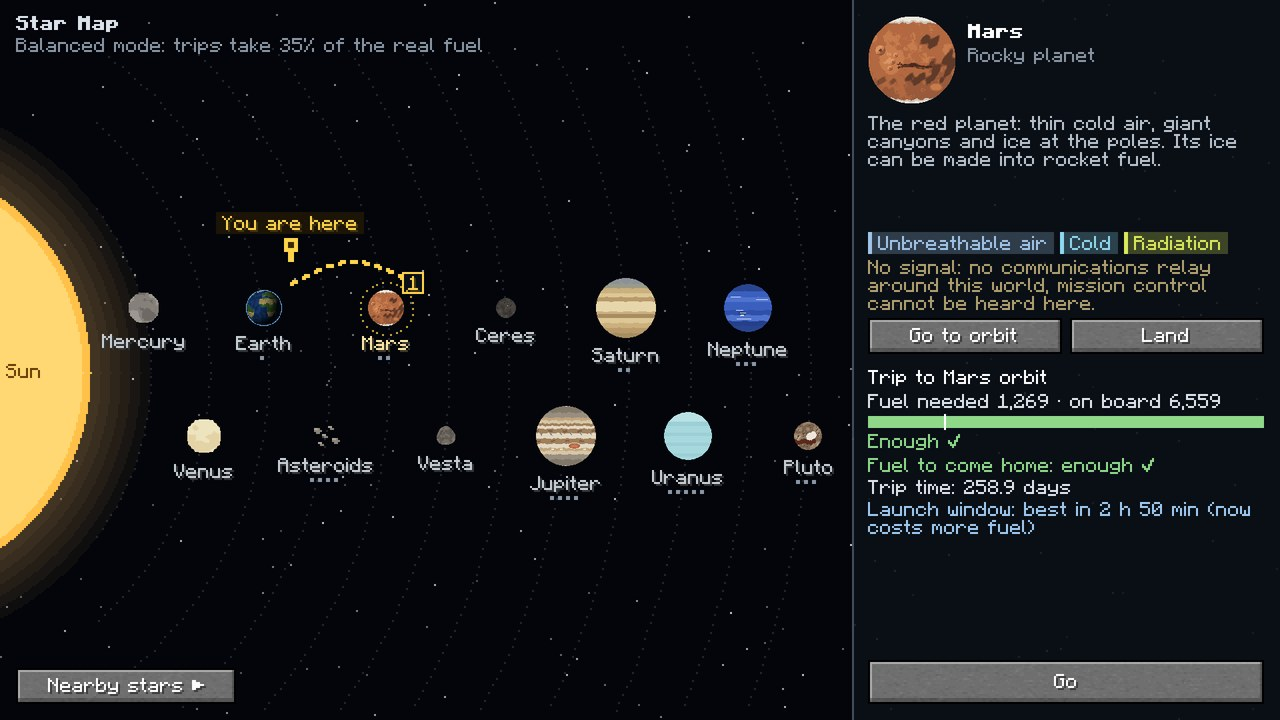
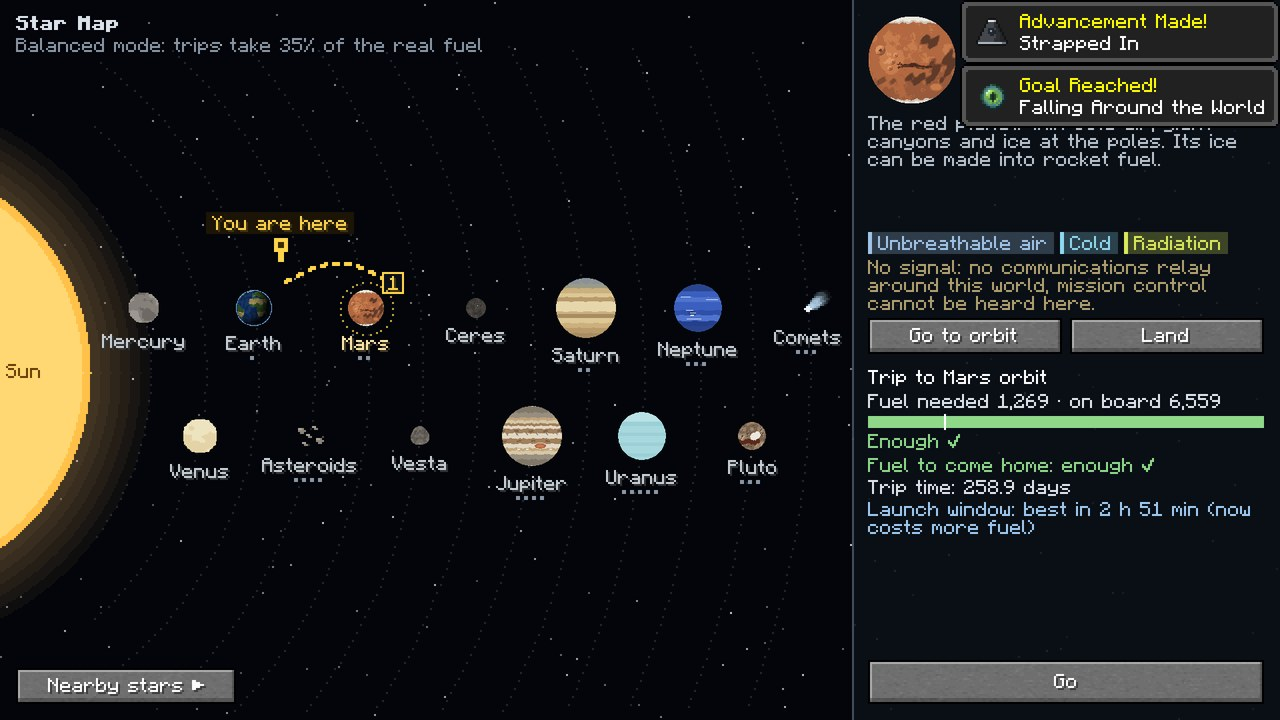
Rocketry: comets on the star map as information only
Comets are kept out of the flight places (no orbit, no surface) and gathered in
one 'Comets' node at the end of the solar system view. Each has a card from the
astro library: distance from the Sun, next closest pass and its distance, orbital
period and activity; no orbit or landing buttons. Comet names come from the
catalogue. Showcase shot 45.

diff --git a/src/main/java/com/pizzaparker07/spacebreaker/client/rocketry/StarMapScreen.java b/src/main/java/com/pizzaparker07/spacebreaker/client/rocketry/StarMapScreen.java
@@ -125,7 +125,11 @@ public class StarMapScreen extends Screen {
             goButton.visible = star != null;
             goButton.active = false;
         } else {
-            orbitButton.visible = true;
+            // comets are on the map to look at, not to fly to (yet)
+            orbitButton.visible = !StarMapData.comet(body);
+            if (StarMapData.comet(body)) {
+                surfaceButton.visible = false;
+            }
         }
     }
 
@@ -188,7 +192,7 @@ public class StarMapScreen extends Screen {
             }
         } else {
             int cx = mapW / 2;
-            int pr = StarMapData.NEAR_EARTH_ASTEROIDS.equals(focus) ? 9 : Mth.clamp(Math.min(mapW, height) / 9, 14, 30);
+            int pr = StarMapData.NEAR_EARTH_ASTEROIDS.equals(focus) || StarMapData.COMETS.equals(focus) ? 9 : Mth.clamp(Math.min(mapW, height) / 9, 14, 30);
             nodes.put(focus, new Node(focus, cx, cy, pr));
             List<ResourceLocation> moons = StarMapData.moons(focus);
             int first = pr + 46;
@@ -294,7 +298,7 @@ public class StarMapScreen extends Screen {
             layoutMap();
         }
         // the asteroid group is not a place: pick its first member
-        select(StarMapData.NEAR_EARTH_ASTEROIDS.equals(n.body) ? StarMapData.moons(n.body).get(0) : n.body);
+        select(StarMapData.NEAR_EARTH_ASTEROIDS.equals(n.body) || StarMapData.COMETS.equals(n.body) ? StarMapData.moons(n.body).get(0) : n.body);
         return true;
     }
 
@@ -379,7 +383,7 @@ public class StarMapScreen extends Screen {
                 ellipse(g, p.x, p.y, (int) r, (int) (r * 0.8), 0x30A0B4C8);
             }
         }
-        g.drawCenteredString(font, StarMapData.NEAR_EARTH_ASTEROIDS.equals(focus) ? Location.bodyName(focus)
+        g.drawCenteredString(font, StarMapData.NEAR_EARTH_ASTEROIDS.equals(focus) || StarMapData.COMETS.equals(focus) ? Location.bodyName(focus)
                 : Component.translatable("gui.spacebreaker.star_map.system_of", Location.bodyName(focus)), mapW / 2, 34, INK);
     }
 
@@ -394,6 +398,10 @@ public class StarMapScreen extends Screen {
             // the asteroid group gets a short label so it never runs into its neighbours
             Component name = StarMapData.NEAR_EARTH_ASTEROIDS.equals(n.body)
                     ? Component.translatable("body.spacebreaker.near_earth_asteroids.short") : Location.bodyName(n.body);
+            if (StarMapData.comet(n.body)) {
+                name = com.pizzaparker07.spacebreaker.core.astro.smallbody.Comet.byId(n.body.getPath())
+                        .map(c -> (Component) Component.literal(c.designation())).orElse(name);
+            }
             int col = sel ? 0xFFFFE9A8 : 0xFFC8D0D8;
             g.drawCenteredString(font, name, n.x, n.y + n.r + 5, col);
             if (!com.pizzaparker07.spacebreaker.content.rocketry.station.Stations.around(n.body).isEmpty()) {
@@ -530,6 +538,10 @@ public class StarMapScreen extends Screen {
             hx += tw + 3;
         }
         y += 14;
+        if (StarMapData.comet(body)) {
+            drawComet(g, x, y, w);
+            return;
+        }
         if (!com.pizzaparker07.spacebreaker.content.rocketry.mission.Coverage.hasSignal(body)) {
             for (FormattedCharSequence line : font.split(Component.translatable("gui.spacebreaker.star_map.no_signal"), w)) {
                 g.drawString(font, line, x, y, 0xFFB0A070, false);
@@ -574,6 +586,22 @@ public class StarMapScreen extends Screen {
             return;
         }
         drawTrip(g, x, orbitButton.getY() + 26, w);
+    }
+
+    /** A comet's card: where it is, when it next swings past the Sun, how active it is. */
+    private void drawComet(GuiGraphics g, int x, int y, int w) {
+        var info = StarMapData.cometInfo(body, com.pizzaparker07.spacebreaker.core.astro.BodyAdapter.simTime(minecraft.level)).orElse(null);
+        if (info == null) {
+            return;
+        }
+        boolean tr = minecraft.getLanguageManager().getSelected().startsWith("tr");
+        String level = tr ? info.level().nameTr : info.level().nameEn;
+        y = fact(g, x, y, w, Component.translatable("gui.spacebreaker.star_map.comet.distance", decimal(info.sunAu())));
+        y = fact(g, x, y, w, Component.translatable("gui.spacebreaker.star_map.comet.perihelion",
+                info.nextPerihelion().format(java.time.format.DateTimeFormatter.ISO_LOCAL_DATE), decimal(info.perihelionAu())));
+        y = fact(g, x, y, w, Component.translatable("gui.spacebreaker.star_map.comet.period", decimal(info.periodYears())));
+        y = fact(g, x, y, w, Component.translatable("gui.spacebreaker.star_map.comet.activity", level));
+        g.drawWordWrap(font, Component.translatable("gui.spacebreaker.star_map.comet.no_trip"), x, y + 6, w, DIM);
     }
 
     private void drawTrip(GuiGraphics g, int x, int y, int w) {
@@ -904,6 +932,15 @@ public class StarMapScreen extends Screen {
     // ------------------------------------------------------------------ primitives
 
     private static void planet(GuiGraphics g, ResourceLocation body, int cx, int cy, int r) {
+        if (StarMapData.COMETS.equals(body) || StarMapData.comet(body)) {
+            // a bright little nucleus with its tail streaming away to the upper right
+            for (int i = r * 2; i > 0; i--) {
+                int a = 0x10 + 0xA0 * (r * 2 - i) / (r * 2);
+                disc(g, cx + i * 2 / 3, cy - i / 2, Math.max(1, r / 3 + i / 5), (a << 24) | 0xB8D8F0);
+            }
+            disc(g, cx, cy, Math.max(2, r / 3), 0xFFEEF4FA);
+            return;
+        }
         if (StarMapData.NEAR_EARTH_ASTEROIDS.equals(body)) {
             // a loose handful of grey rocks
             int[][] rocks = {{-4, -3, 3}, {3, -4, 2}, {5, 2, 3}, {-2, 4, 2}, {0, 0, 2}};
@@ -945,7 +982,7 @@ public class StarMapScreen extends Screen {
 
     /** Opened from the HUD hint or the key; also used by the showcase to preselect a destination. */
     public void preselect(ResourceLocation b, boolean orbit) {
-        if (Locations.parentPlanet(b).isPresent() || StarMapData.nearEarthAsteroid(b)) {
+        if (Locations.parentPlanet(b).isPresent() || StarMapData.nearEarthAsteroid(b) || StarMapData.comet(b)) {
             focus = StarMapData.system(b);
             layoutMap();
         }

diff --git a/src/main/java/com/pizzaparker07/spacebreaker/content/rocketry/RocketryLang.java b/src/main/java/com/pizzaparker07/spacebreaker/content/rocketry/RocketryLang.java
@@ -278,6 +278,12 @@ final class RocketryLang {
         l.add("gui.spacebreaker.star_map.system_of", "The %s system", "%s sistemi");
         l.add("body.spacebreaker.near_earth_asteroids", "Near-Earth asteroids", "Dünya'ya yakın asteroitler");
         l.add("body.spacebreaker.near_earth_asteroids.short", "Asteroids", "Asteroitler");
+        l.add("body.spacebreaker.comets", "Comets", "Kuyruklu yıldızlar");
+        l.add("gui.spacebreaker.star_map.comet.distance", "From the Sun: %s AU", "Güneş'e uzaklık: %s AU");
+        l.add("gui.spacebreaker.star_map.comet.perihelion", "Next closest pass: %s (%s AU)", "Güneş'e en yakın geçiş: %s (%s AU)");
+        l.add("gui.spacebreaker.star_map.comet.period", "One orbit: %s years", "Bir tur: %s yıl");
+        l.add("gui.spacebreaker.star_map.comet.activity", "Activity: %s", "Etkinlik: %s");
+        l.add("gui.spacebreaker.star_map.comet.no_trip", "Too fast and too far to catch for now: watch it from afar.", "Şimdilik yakalanamayacak kadar hızlı ve uzak: uzaktan izle.");
         l.add("gui.spacebreaker.star_map.back", "◀ Solar System", "◀ Güneş Sistemi");
         l.add("gui.spacebreaker.star_map.to_orbit", "Go to orbit", "Yörüngeye git");
         l.add("gui.spacebreaker.star_map.land", "Land", "Yüzeye in");
@@ -319,7 +325,7 @@ final class RocketryLang {
         l.add("gui.spacebreaker.star_map.hazard.radiation", "Radiation", "Radyasyon");
         for (String[] k : new String[][]{
                 {"terrestrial", "Rocky planet", "Kayalık gezegen"}, {"dwarf", "Dwarf planet", "Cüce gezegen"}, {"moon", "Moon", "Uydu"},
-                {"gas_giant", "Gas giant", "Gaz devi"}, {"ice_giant", "Ice giant", "Buz devi"}, {"asteroid", "Asteroid", "Asteroit"},
+                {"gas_giant", "Gas giant", "Gaz devi"}, {"ice_giant", "Ice giant", "Buz devi"}, {"asteroid", "Asteroid", "Asteroit"}, {"comet", "Comet", "Kuyruklu yıldız"},
                 {"star", "Star", "Yıldız"}, {"station", "Space station", "Uzay istasyonu"}}) {
             l.add("gui.spacebreaker.star_map.kind." + k[0], k[1], k[2]);
         }
@@ -330,6 +336,8 @@ final class RocketryLang {
                 {"gas_giant", "A giant ball of gas with no ground to stand on.", "Üzerinde durulacak zemini olmayan dev bir gaz küresi."},
                 {"ice_giant", "A cold giant of gas and ice, with no ground to stand on.", "Gaz ve buzdan soğuk bir dev; üzerinde durulacak zemin yok."},
                 {"asteroid", "A lump of rock left over from the birth of the planets.", "Gezegenlerin doğumundan kalmış bir kaya parçası."},
+                {"comet", "A dirty snowball on a long, stretched orbit: near the Sun its ice boils off into a glowing tail.",
+                        "Uzun, basık bir yörüngede kirli bir kar topu: Güneş'e yaklaşınca buzu kaynayıp parlayan bir kuyruğa dönüşür."},
                 {"star", "", ""}, {"station", "A home built in space.", "Uzayda kurulmuş bir yuva."}}) {
             l.add("gui.spacebreaker.star_map.about_kind." + k[0], k[1], k[2]);
         }
@@ -366,6 +374,10 @@ final class RocketryLang {
         // (Neptune, Triton, Pluto and Charon are named by their own world modules)
         for (String[] b : new String[][]{{"uranus", "Uranus", "Uranüs"}, {"miranda", "Miranda", "Miranda"}}) {
             l.add("body.spacebreaker." + b[0], b[1], b[2]);
+        }
+        // comets have no world module: the map names them from the astro library's catalogue
+        for (var c : com.pizzaparker07.spacebreaker.core.astro.smallbody.Comet.CATALOGUE) {
+            l.add("body.spacebreaker." + c.id(), c.nameEn(), c.nameTr());
         }
     }
 }

diff --git a/src/main/java/com/pizzaparker07/spacebreaker/content/rocketry/nav/StarMapData.java b/src/main/java/com/pizzaparker07/spacebreaker/content/rocketry/nav/StarMapData.java
@@ -184,6 +184,38 @@ public final class StarMapData {
 
     /** The map's group of near-Earth asteroids (not a real body): one node on the solar system view. */
     public static final ResourceLocation NEAR_EARTH_ASTEROIDS = ResourceLocation.fromNamespaceAndPath("spacebreaker", "near_earth_asteroids");
+    /** The map's group of comets: information only (comets are not places to fly to yet). */
+    public static final ResourceLocation COMETS = ResourceLocation.fromNamespaceAndPath("spacebreaker", "comets");
+
+    public static boolean comet(ResourceLocation body) {
+        return Locations.comets().contains(body);
+    }
+
+    /**
+     * What the map shows about a comet now.
+     *
+     * @param sunAu            distance from the Sun, AU
+     * @param nextPerihelion   date of the next closest pass to the Sun
+     * @param level            how active it is (asleep far out, a bright tail near the Sun)
+     * @param periodYears      orbital period
+     */
+    public record CometInfo(double sunAu, java.time.LocalDate nextPerihelion, com.pizzaparker07.spacebreaker.core.astro.smallbody.CometActivity.Level level,
+                            double periodYears, double perihelionAu) {
+    }
+
+    /** The comet card at simulated time {@code t} (seconds from J2000), if the astro library knows the comet. */
+    public static java.util.Optional<CometInfo> cometInfo(ResourceLocation body, double t) {
+        return com.pizzaparker07.spacebreaker.core.astro.smallbody.Comet.byId(body.getPath()).map(c -> {
+            var activity = com.pizzaparker07.spacebreaker.core.astro.smallbody.CometActivity.at(c, t);
+            double periodDays = c.periodSeconds() / 86400.0;
+            double nowDays = t / 86400.0;
+            double k = Math.ceil((nowDays - c.perihelionDays()) / periodDays);
+            double next = c.perihelionDays() + k * periodDays;
+            java.time.LocalDate date = java.time.LocalDate.of(2000, 1, 1).plusDays((long) Math.floor(next + 0.5));
+            return new CometInfo(activity.distanceAu(), date, activity.level(), c.periodYears(), c.perihelionAu());
+        });
+    }
+
     /** A near-Earth asteroid comes closer to the Sun than 1.3 AU (the usual definition). */
     public static final double NEA_PERIHELION_KM = 1.3 * 149_597_870.7;
 
@@ -205,11 +237,17 @@ public final class StarMapData {
                 out.add(b);
             }
         }
+        if (!Locations.comets().isEmpty()) {
+            out.add(COMETS); // last: their orbits reach out past the planets
+        }
         return out;
     }
 
     public static List<ResourceLocation> moons(ResourceLocation planet) {
         List<ResourceLocation> out = new ArrayList<>();
+        if (COMETS.equals(planet)) {
+            return Locations.comets();
+        }
         if (NEAR_EARTH_ASTEROIDS.equals(planet)) {
             for (Location l : Locations.all()) {
                 if (nearEarthAsteroid(l.body()) && !out.contains(l.body())) {
@@ -228,6 +266,6 @@ public final class StarMapData {
 
     /** The planet a body belongs to (itself for planets): the map focuses on this system. */
     public static ResourceLocation system(ResourceLocation body) {
-        return nearEarthAsteroid(body) ? NEAR_EARTH_ASTEROIDS : Locations.parentPlanet(body).orElse(body);
+        return comet(body) ? COMETS : nearEarthAsteroid(body) ? NEAR_EARTH_ASTEROIDS : Locations.parentPlanet(body).orElse(body);
     }
 }

diff --git a/src/testmod/java/com/pizzaparker07/spacebreaker/testmod/rocketry/RocketryGameTests.java b/src/testmod/java/com/pizzaparker07/spacebreaker/testmod/rocketry/RocketryGameTests.java
@@ -1093,6 +1093,34 @@ public final class RocketryGameTests {
     }
 
     @GameTest(template = EMPTY)
+    public static void cometsOnTheMap(GameTestHelper helper) {
+        var planets = StarMapData.planets();
+        helper.assertTrue(!planets.isEmpty() && planets.get(planets.size() - 1).equals(StarMapData.COMETS), "one comet node, last: " + planets);
+        var comets = StarMapData.moons(StarMapData.COMETS);
+        for (String n : List.of("halley", "encke", "churyumov_gerasimenko")) {
+            var id = Spacebreaker.id(n);
+            helper.assertTrue(comets.contains(id) && !planets.contains(id), n + " is in the comet group");
+            helper.assertTrue(StarMapData.system(id).equals(StarMapData.COMETS), n + " belongs to the group");
+            helper.assertTrue(com.pizzaparker07.spacebreaker.content.rocketry.nav.Locations.get(id, true).isEmpty()
+                    && com.pizzaparker07.spacebreaker.content.rocketry.nav.Locations.get(id, false).isEmpty(), n + ": nowhere to fly (no orbit, no surface)");
+            helper.assertTrue(com.pizzaparker07.spacebreaker.content.rocketry.nav.Locations.all().stream().noneMatch(l -> l.body().equals(id)), n + ": not a destination");
+        }
+        // the card at J2000
+        var halley = StarMapData.cometInfo(Spacebreaker.id("halley"), 0).orElseThrow();
+        helper.assertTrue(halley.nextPerihelion().getYear() == 2061, "Halley comes back in 2061: " + halley.nextPerihelion());
+        helper.assertTrue(halley.sunAu() > 10 && halley.level() == com.pizzaparker07.spacebreaker.core.astro.smallbody.CometActivity.Level.DORMANT,
+                "far out in 2000 and asleep: " + halley.sunAu() + " AU");
+        var encke = StarMapData.cometInfo(Spacebreaker.id("encke"), 0).orElseThrow();
+        helper.assertTrue(encke.periodYears() > 3 && encke.periodYears() < 3.6, "Encke: 3.3 years: " + encke.periodYears());
+        // 67P at its 2015 perihelion was active
+        double perihelion2015 = (java.time.LocalDate.of(2015, 8, 13).toEpochDay() - java.time.LocalDate.of(2000, 1, 1).toEpochDay()) * 86400.0;
+        var p67 = StarMapData.cometInfo(Spacebreaker.id("churyumov_gerasimenko"), perihelion2015).orElseThrow();
+        helper.assertTrue(p67.sunAu() < 1.4 && p67.level() != com.pizzaparker07.spacebreaker.core.astro.smallbody.CometActivity.Level.DORMANT,
+                "67P near the Sun in August 2015, active: " + p67.sunAu() + " AU, " + p67.level());
+        helper.succeed();
+    }
+
+    @GameTest(template = EMPTY)
     public static void nearEarthAsteroids(GameTestHelper helper) {
         var planets = StarMapData.planets();
         helper.assertTrue(planets.contains(StarMapData.NEAR_EARTH_ASTEROIDS), "one group for the near-Earth asteroids: " + planets);

diff --git a/src/main/java/com/pizzaparker07/spacebreaker/content/rocketry/nav/Locations.java b/src/main/java/com/pizzaparker07/spacebreaker/content/rocketry/nav/Locations.java
@@ -45,6 +45,7 @@ public final class Locations {
         }
         Map<ResourceLocation, CelestialBody> b = new LinkedHashMap<>();
         List<Location> out = new ArrayList<>();
+        List<ResourceLocation> cometIds = new ArrayList<>();
         reg.get().entrySet().stream()
                 .sorted(Comparator.comparingDouble(e -> order(reg.get(), e.getValue())))
                 .forEach(e -> {
@@ -54,6 +55,11 @@ public final class Locations {
                         return;
                     }
                     b.put(id, body);
+                    if (body.type() == BodyType.COMET) {
+                        // known for the map's information card, but nowhere to fly: no orbit, no surface
+                        cometIds.add(id);
+                        return;
+                    }
                     Location surface = Location.of(id, body, false);
                     if (surface != null) {
                         out.add(surface);
@@ -62,6 +68,7 @@ public final class Locations {
                 });
         bodies = Map.copyOf(b);
         all = List.copyOf(out);
+        comets = List.copyOf(cometIds);
         java.util.Set<ResourceLocation> fuel = new java.util.HashSet<>();
         reg.get().getTag(REFUEL).ifPresent(tag -> tag.forEach(h -> h.unwrapKey().ifPresent(k -> fuel.add(k.location()))));
         fuel.add(Location.EARTH);
@@ -76,6 +83,13 @@ public final class Locations {
             return parent.get().orbit().semiMajorAxisKm() + Math.min(own, 1e6) * 1e-3;
         }
         return own;
+    }
+
+    private static volatile List<ResourceLocation> comets = List.of();
+
+    /** Comets of the body data, in order from the Sun: shown on the star map, not places to fly to. */
+    public static List<ResourceLocation> comets() {
+        return comets;
     }
 
     /** Whether propellant can be made on this world's surface (see {@link #REFUEL}). */

diff --git a/src/testmod/java/com/pizzaparker07/spacebreaker/testmod/showcase/RocketryScenario.java b/src/testmod/java/com/pizzaparker07/spacebreaker/testmod/showcase/RocketryScenario.java
@@ -562,6 +562,7 @@ final class RocketryScenario implements ShowcaseScenario {
                 }, null));
         s.add(new Shot("43_map_asteroids", 6000, 0, 0, 0, 0F, 0F, false, fp, 120, p -> mapShot(p, Spacebreaker.id("bennu"), false), null));
         s.add(new Shot("44_map_system_asteroids", 6000, 0, 0, 0, 0F, 0F, false, fp, 120, p -> mapShot(p, Spacebreaker.id("mars"), true), null));
+        s.add(new Shot("45_map_comets", 6000, 0, 0, 0, 0F, 0F, false, fp, 120, p -> mapShot(p, Spacebreaker.id("churyumov_gerasimenko"), false), null));
         s.add(new Shot("31_nearby_stars", 6000, 0, 0, 0, 0F, 0F, false, fp, 120,
                 p -> {
                     RocketryShowcaseClient.star = "Alpha Centauri";

diff --git a/docs/CONTENT.md b/docs/CONTENT.md
@@ -49,7 +49,7 @@ Her içerik paketi gerçek istemcide vitrin dünyasında fotoğraflanır; onayda
 | 🎨 | Fırlatma tesisi: rampa kaplaması, alev kanalı ızgarası, servis kulesi, erişim kolu (geri sayımda katlanır), yakıt hattı (c:rp1 / c:liquid_oxygen), kontrol konsolu | çok bloklu; boş elle tıklayınca kontrol listesi + eksik bloklar alevle işaretlenir |
 | ⬜ | Uyarı ışığı | |
 | 🎨 | Roket parçaları: burun konisi, kapsül, ısı kalkanı, paraşüt, küçük/orta/büyük tank, deniz seviyesi + vakum kerosen motoru, deniz seviyesi + vakum metaloks motoru (Metan Motorları teknolojisi; Mars'ta üretilen metan + LOX ile dönüş), deniz seviyesi + vakum hidroloks motoru (Hidrojen Motorları; en yüksek Isp, Merkür yörüngesine gidip dönüş), kademe ayırıcı, ara kademe, kanatçık, ızgara kanatçık, iniş bacakları, manevra iticileri | veriyle tanımlı (`rocket_part/*.json`), gerçekçi kütle/itki/Isp; tanklar kademenin motorunun yakıtını (RP-1, sıvı metan ya da sıvı hidrojen) alır; envanterde 2B, elde ve rokette 3B |
-| 🎨 | Roket, yörünge boyutları (Dünya / Ay yörüngesi + diğer cisimler için ortak yörünge), yıldız haritası (gök cismi verisinden: Merkür, Venüs, Mars, Phobos, Deimos ve dış sistem kendiliğinden; Güneş solda, gezegene tıklayınca sistemine yakınlaşır, sağ panelde resim, kısa açıklama, tehlikeler, "Yörüngeye git / Yüzeye in", düz dille yakıt kontrolü, dönüş yakıtı, yolculuk süresi, fırlatma penceresi, adım adım rota; sağ tık ile "Yakın yıldızlar": Güneş'e 25 ışık yılı içindeki yıldızlar, Samanyolu'nda konum, yıldız bilgisi — yıldızlar arası yolculuk henüz yok) | binince roket kamerası (fareyle çevresinde dön, tekerlekle yakınlaş, F5 ile kokpit penceresi), boyut değişiminde yükleme ekranı yerine geçiş animasyonu (gök kararır → yıldızlar, yıldızlar akar → hedef büyür, gezegen yaklaşır → plazma), geri sayım, ateşleme, kademe ayrılması, gökyüzünün kararması, yörüngede dönen gezegen, Ay'a motorlu iniş + toz, atmosfere giriş (plazma), paraşüt, suya iniş |
+| 🎨 | Roket, yörünge boyutları (Dünya / Ay yörüngesi + diğer cisimler için ortak yörünge), yıldız haritası (gök cismi verisinden: Merkür, Venüs, Mars, Phobos, Deimos ve dış sistem kendiliğinden; Güneş solda, gezegene tıklayınca sistemine yakınlaşır, sağ panelde resim, kısa açıklama, tehlikeler, "Yörüngeye git / Yüzeye in", düz dille yakıt kontrolü, dönüş yakıtı, yolculuk süresi, fırlatma penceresi, adım adım rota; sağ tık ile "Yakın yıldızlar": Güneş'e 25 ışık yılı içindeki yıldızlar, Samanyolu'nda konum, yıldız bilgisi — yıldızlar arası yolculuk henüz yok; Dünya'ya yakın asteroitler (Bennu, Ryugu, Itokawa, Eros) tek "Asteroitler" düğümünde toplanır; kuyruklu yıldızlar (1P/Halley, 2P/Encke, 67P) yalnız bilgi kartıyla: Güneş'e uzaklık, sonraki yakın geçiş, bir tur süresi, etkinlik; gidilecek yer değil) | binince roket kamerası (fareyle çevresinde dön, tekerlekle yakınlaş, F5 ile kokpit penceresi), boyut değişiminde yükleme ekranı yerine geçiş animasyonu (gök kararır → yıldızlar, yıldızlar akar → hedef büyür, gezegen yaklaşır → plazma), geri sayım, ateşleme, kademe ayrılması, gökyüzünün kararması, yörüngede dönen gezegen, Ay'a motorlu iniş + toz, atmosfere giriş (plazma), paraşüt, suya iniş |
 | 🎨 | Acil Dönüş İşareti, Yaratıcı Yakıt Kartuşu | mahsur kalmama; test için tam yakıt |
 | 🎨 | İstasyon Gövdesi, İstasyon Penceresi, Yanaşma Portu, İstasyon Kurulum Kiti | yörüngede boşlukta kit 5×5 gövde zemini açar; gövde/pencere/port tam blok → oksijen dağıtıcısıyla basınçlı oda; porta 12 blok yakın yörüngedeki roket "yanaşmış" sayılır: mürettebat inip binebilir, porta borulanan sıvılar roketin tanklarına gider |
 | 🎨 | Yaşam Modülü Kiti, İstasyon Ranzası, Yakıt Deposu | kit boşlukta kapalı 7×5×7 oda açar: pencere bandı, hava kilidi kapısı, uzak duvarda yanaşma portu, içeride oksijen dağıtıcısı + ranza, çatıda güneş paneli dizisi ve altında gece için batarya bankası, tavanda bakır kablo ucu (endüstri); dağıtıcıya oksijen tüpü takınca oda hava dolar. Ranza her dünyada yeniden doğma noktası ayarlar (yatak gerekmez). Yakıt deposu 4 tank (RP-1, LOX, metan, hidrojen; 32.000 mB), borudan/kovayla dolar; FE ile çalışır (40 FE/t, 20.000 FE tampon) ve 8 blok içindeki yanaşma portlarındaki roketlere yakıt pompalar. Yörüngeye varan roket o yörüngedeki en yakın yanaşma portuna kendiliğinden yaklaşır: uzakta hızlı, son metrelerde yavaş, manevra iticisi pufları; kenetlenmede kilit sesi ve kabin sarsıntısı. Yıldız haritasında istasyonu olan gezegenin yanında istasyon simgesi; panelde kuran oyuncu ve yanaşma portu sayısı (yakın portlar tek istasyon sayılır). Yörüngede gündüz/gece: istasyon 10 dakikada bir tur atar, turun yaklaşık üçte birinde gezegenin gölgesinde kalır (astro Eclipses; yarı gölgede yumuşak geçiş); güneş gezegenin arkasına kayarak söner, ışık kararır, gece yüzü karanlık. Sunucu ve istemci aynı oyun saatinden hesaplar (`OrbitDaylight.sunlit(level, pos)` güneş panelleri için) |
